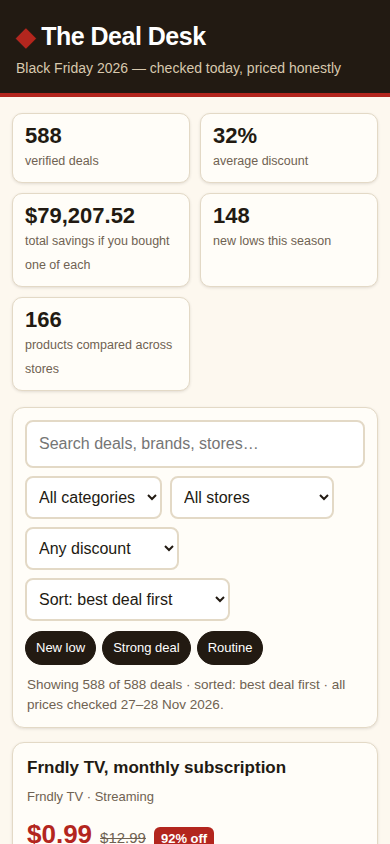
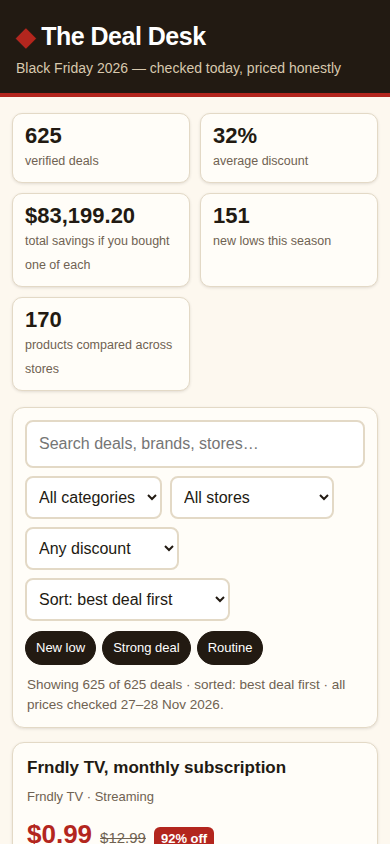
v24: 625 deals — 37 new verified (Gaming/Kitchen/Beauty/Smart Home/Fitness/Tech), 10 also rows, Bose QC $169->$167; first load 13,874 B, dossier 136,369 B

diff --git a/app/data2.js b/app/data2.js
@@ -1,4 +1,4 @@
-// The rest of the deals (v6–v23; v23 checked 28 Nov 2026 ~19:59 UTC).
+// The rest of the deals (v6–v24; v24 checked 28 Nov 2026 ~20:19 UTC).
 // Loaded by data.js with import() after the first paint. Times/sources
 // are local consts here: never import data.js, or the modules deadlock
 // on the top-level await.
@@ -32,6 +32,16 @@ const N0=DT+"19:31:00Z";
 const O0=DT+"19:39:00Z";
 const P0=DT+"19:50:00Z";
 const Q0=DT+"19:59:00Z";
+const R0=DT+"20:12:00Z";
+const S0=DT+"20:19:00Z";
+const BV = "Bob Vila Black Friday kitchen deals, 28 Nov 2026";
+const PS = "PopSci Amazon Black Friday deals, 28 Nov 2026";
+const D2 = "DealNews Black Friday deals, 28 Nov 2026";
+const T1 = "Tom's Guide Black Friday deals under $30, 28 Nov 2026";
+const OT = "Overtime Gamer Nintendo eShop Black Friday sale, 28 Nov 2026";
+const PW = "Pogwire Switch 2 Black Friday 2026, 28 Nov 2026";
+const GZ = "Gizmodo Dyson Supersonic Nural Black Friday, 28 Nov 2026";
+const PD = "PriceDrop Shark FlexFusion Black Friday, 28 Nov 2026";
 const SD = "Slickdeals Black Friday frontpage, 28 Nov 2026";
 const NW = "NintendoWire Switch 2 Black Friday deals, 28 Nov 2026";
 const NL = "Nintendo Life Switch 2 Black Friday deals, 28 Nov 2026";
@@ -145,10 +155,10 @@ export const deals2 = [
   ["macbook-neo-512gb-amazon","Apple MacBook Neo 13-inch laptop (512GB)",AM,CL,699,799,"d4",H8,LC,VS,"$100 off the 512GB Neo"],
   ["mario-party-jamboree-s2-amazon","Super Mario Party Jamboree — Nintendo Switch 2 Edition",AM,CG,59,80,"d4",H8,LC,VS,"$21 off Switch 2 party game",[[BB,59,"d0,4,7",H6,Q9]]],
   ["galaxy-z-fold-8-amazon","Samsung Galaxy Z Fold 8 256GB foldable phone",AM,CT,1499.99,1900,2,H4,VG,VN,"$400 off, all-time low",[[BB,1499.99,2,H4,BP]]],
-  ["oura-ring-5-amazon","Oura Ring 5 smart ring",AM,CF,299,399,2,H8,BL,VS,R1],
+  ["oura-ring-5-amazon","Oura Ring 5 smart ring",AM,CF,299,399,2,H8,BL,VS,R1,[[BB,299,0,R0,VG]]],
   ["marshall-emberton-3-amazon","Marshall Emberton III portable speaker",AM,CA,89.99,179.99,"d3",H8,BL,VN,HP+", the best deal seen",[[BB,89.99,2,H2,BP]]],
   ["garmin-instinct-3-amazon","Garmin Instinct 3 AMOLED (45mm) GPS watch",AM,CF,249.99,449.99,2,H8,BL,VS,"$200 off Garmin's rugged watch",[[BB,249.99,2,H5,BP]]],
-  ["anker-power-bank-25k-amazon","Anker laptop power bank, 25,000mAh",AM,CT,91.19,119.99,AMZ+"Anker+laptop+power+bank+25000mAh",H8,BL,VS,R2],
+  ["anker-power-bank-25k-amazon","Anker laptop power bank, 25,000mAh",AM,CT,91.19,119.99,AMZ+"Anker+laptop+power+bank+25000mAh",H8,BL,VS,R2,[[BB,91,0,R0,VG]]],
   ["sony-wh1000xm6-bestbuy","Sony WH-1000XM6 noise-canceling headphones",BB,CA,348,458,2,H8,S7,VS,"Read live off Best Buy's page",[[AM,348,AMZ+"Sony+WH-1000XM6"]]],
   ["hp-omnibook-3-bestbuy","HP OmniBook 3 14-inch OLED laptop",BB,CL,599.99,799.99,1,H8,S7,VS,"$200 off a 14-inch OLED laptop"],
   ["insignia-fridge-bestbuy","Insignia 18 cu ft top-freezer refrigerator",BB,CH,299.99,749.99,"d4",H8,S7,VS,"60% off a full-size fridge"],
@@ -171,7 +181,7 @@ export const deals2 = [
   ["hp-essential-14-target","HP Essential 14-inch laptop","Target",CL,299.99,999.97,TGT+"HP+Essential+14+laptop",H8,S8,VN,"70% off, $700 under list"],
   ["titan-massage-chair-sams","Titan Pro 3D massage chair","Sam's Club",CH,1499,2999,"https://www.samsclub.com/s/titan%20massage%20chair",H8,S8,VN,HP+", full massage chair"],
   ["jbl-tour-one-m3-amazon","JBL Tour One M3",AM,CA,149.95,449.95,0,H8,VG,VN,R4],
-  ["nex-playground-amazon","Nex Playground",AM,CY,209,299,0,H8,VG,VN,R5],
+  ["nex-playground-amazon","Nex Playground",AM,CY,209,299,0,H8,VG,VN,R5,[[WM,209,0,R0,VG]]],
   ["alienware-aw2726dm-bestbuy","Alienware AW2726DM QD-OLED monitor",BB,CT,279.99,349.99,2,H8,VG,VN,"Lowest price yet, 27-inch",[["Dell",279.99,"https://www.dell.com/en-us/search/Alienware%20AW2726DM"]]],
   ["cmf-buds-2a-amazon","CMF Buds 2A",AM,CA,17.89,29,0,H8,VG,VN,"38% off buds with ANC",[[WM,18,0,Q0,SD]]],
   ["tapo-smart-plug-amazon","TP-Link Tapo Matter smart plug mini",AM,CS,7.99,19.99,"d2,5",H8,VG,VN,"60% off the Matter smart plug"],
@@ -203,8 +213,8 @@ export const deals2 = [
   ["govee-lamp-2-pro-amazon","Govee Table Lamp 2 Pro X Sound by JBL",AM,CS,119.99,179.99,4,H8,VG,VS,"A third off the smart lamp",[[BB,119.99,BBY+"Govee+Table+Lamp+2+Pro"]]],
   ["pixel-buds-2a-amazon","Google Pixel Buds 2a",AM,CA,99,129,0,H8,VG,VS,"23% off Google's newest buds",[[BB,99]]],
   ["glocusent-light-amazon","Glocusent bookmark reading light",AM,CT,10.49,33.89,0,H8,VG,VS,"69% off the pocket light"],
-  ["echo-dot-max-amazon","Amazon Echo Dot Max smart speaker",AM,CT,50,120,"1-2",H8,ST,VN,"58% off the big Echo speaker",[[TA,49.99,2,H2,T9]]],
-  ["echo-time-amazon","Amazon Echo Time smart clock",AM,CT,99.99,199.99,"1-0",H8,ST,VN,HP+" on a new smart",[[TA,99.99,2,H2,T9]]],
+  ["echo-dot-max-amazon","Amazon Echo Dot Max smart speaker",AM,CT,50,120,"1-2",H8,ST,VN,"58% off the big Echo speaker",[[TA,49.99,2,H2,T9],[BB,50,0,R0,VG]]],
+  ["echo-time-amazon","Amazon Echo Time smart clock",AM,CT,99.99,199.99,"1-0",H8,ST,VN,HP+" on a new smart",[[TA,99.99,2,H2,T9],[BB,100,0,R0,VG]]],
   ["aqara-u400-amazon","Aqara U400 smart lock",AM,CS,200,270,0,H8,ST,VS,"Hands-free UWB + Home Key"],
   ["assassins-creed-black-flag-amazon","Assassin's Creed Black Flag (PS5)",AM,CG,30,60,AMZ+"Assassins+Creed+Black+Flag+PS5",H8,ST,VN,HP+" on the remake"],
   ["funko-astro-bot-amazon","Funko POP! Jumbo Astro Bot",AM,CY,20,40,0,H8,ST,VN,HP+" on jumbo Astro Bot"],
@@ -307,7 +317,7 @@ export const deals2 = [
   ["alexa-tablet-11-128gb-amazon","Amazon Alexa Tablet 11, 128GB",AM,CT,220,380,0,H0,WQ,VN,"New all-time low, $160 off"],
   ["alexa-tablet-12-pro-amazon","Amazon Alexa Tablet 12 Pro, 128GB",AM,CT,349.99,500,1,P0,Q9,VN,"All-time low, $150 off, 128GB"],
   ["alexa-tablet-12-pro-nanomatte-amazon","Amazon Alexa Tablet 12 Pro Nanomatte, 128GB",AM,CT,400,550,1,P0,Q9,VN,"All-time low, $150 off Nano"],
-  ["alexa-photo-frame-amazon","Amazon Alexa Photo Frame",AM,CT,115,200,0,H0,WQ,VN,"New low, $85 off Alexa"],
+  ["alexa-photo-frame-amazon","Amazon Alexa Photo Frame",AM,CT,115,200,0,H0,WQ,VN,"New low, $85 off Alexa",[[BB,115,0,R0,VG]]],
   ["fire-tv-stick-4k-select-amazon","Amazon Fire TV Stick 4K Select",AM,CT,18,50,0,H0,WQ,VN,"64% off the Select 4K stick",[[BB,17.99,"d0,4",H6,"ClarkDeals Best Buy, 28 Nov 2026"]]],
   ["fire-tv-stick-hd-amazon","Amazon Fire TV Stick HD",AM,CT,16,40,0,H0,WQ,VN,"60% off the HD stick, $16 now",[[BB,15.99,"1-0",H6,BP]]],
   ["watch-series-12-cell-46mm-amazon","Apple Watch Series 12 Cellular 46mm",AM,CT,449,549,0,H0,WQ,VN,AL+" on the 46mm"],
@@ -326,11 +336,11 @@ export const deals2 = [
   ["belkin-qi2-2in1-amazon","Belkin 2-in-1 Qi2 25W magnetic charging station",AM,CT,43,60,AMZ+"Belkin+2-in-1+Qi2+25W+magnetic+charger",H0,WQ,VS,"$17 off Belkin's Qi2 station"],
   ["belkin-qi2-3in1-foldable-amazon","Belkin 25W 3-in-1 foldable charging station",AM,CT,77,100,0,H0,WQ,VS,"$23 off Belkin's foldable"],
   ["ugreen-magflow-pro-10k-amazon","UGREEN 25W Qi2 MagFlow Pro 10K power bank",AM,CT,90,150,"d1,2",H0,WQ,VS,"$60 off the liquid-cooled Qi2"],
-  ["pixel-watch-5-45mm-amazon","Google Pixel Watch 5, 45mm",AM,CT,330,430,0,H0,WQ,VS,"$100 off larger Pixel Watch"],
+  ["pixel-watch-5-45mm-amazon","Google Pixel Watch 5, 45mm",AM,CT,330,430,0,H0,WQ,VS,"$100 off larger Pixel Watch",[[BB,329.99,0,R0,BP]]],
   ["pixel-watch-5-lte-41mm-amazon","Google Pixel Watch 5 LTE, 41mm",AM,CT,400,500,0,H0,WQ,VS,R8],
   ["pixel-watch-5-lte-45mm-amazon","Google Pixel Watch 5 LTE, 45mm",AM,CT,430,530,0,H0,WQ,VS,R8],
   ["ps-access-controller-amazon","PlayStation Access Controller",AM,CG,60,90,0,H0,WQ,VS,"$30 off Sony's PS5 controller"],
-  ["control-resonant-amazon","CONTROL Resonant (PlayStation 5)",AM,CG,50,60,"dp",H0,WQ,VS,"$10 off Remedy's new PS5 game",[[BB,50,2,H6,Q9]]],
+  ["control-resonant-amazon","CONTROL Resonant (PlayStation 5)",AM,CG,50,60,"dp",H0,WQ,VS,"$10 off Remedy's new PS5 game",[[BB,50,2,H6,Q9],["PlayStation Store",48,"https://store.playstation.com/en-us/search/CONTROL%20Resonant",R0,VG]]],
   ["cyberpunk-2077-ultimate-amazon","Cyberpunk 2077: Ultimate Edition (PlayStation 5)",AM,CG,40,50,"dp",H0,WQ,VS,"$10 off the Ultimate Edition",[[BB,40,"d2,3p",H6,Q9]]],
   ["switch-sports-resort-amazon","Nintendo Switch Sports Resort",AM,CG,45,50,0,H0,WQ,VR,"$5 off the Switch sports set"],
   ["xenoblade-upgrade-pack-amazon","Xenoblade Chronicles Switch 2 Edition Upgrade Pack",AM,CG,7,10,"d4",H0,WQ,VS,TH+"Switch 2 upgrade"],
@@ -650,4 +660,41 @@ export const deals2 = [
   ["all-clad-fry-pan-set-costco","All-Clad Ceramic Nonstick fry pan set, 3-piece","Costco",CK,109.99,140,"https://www.costco.com/CatalogSearch?dept=All&keyword=All-Clad+Ceramic+Nonstick+Fry+Pan+Set",Q0,SD,VS,"$30 off the All-Clad fry pans"],
   ["tile-lock-scrabble-amazon","Winning Moves Tile Lock Scrabble board game",AM,CY,16,30,0,Q0,SD,VS,"46% off Tile Lock Scrabble"],
   ["echo-studio-home-camera-amazon","Amazon Echo Studio with Home Camera",AM,CT,180,250,0,Q0,CM2,VS,"$70 off the Studio + camera"],
+  ["kingdom-hearts-collection-amazon","KINGDOM HEARTS Collection [I–III] Amazon Exclusive Edition (Nintendo Switch 2, Game-Key Card)",AM,CG,59.99,74.99,0,R0,NL,VS,"$15 off the KH collection"],
+  ["dragon-quest-1-2-amazon","DRAGON QUEST I & II HD-2D Remake (Nintendo Switch 2, Game-Key Card)",AM,CG,33.24,59.99,0,R0,NL,VS,"44% off Dragon Quest I & II"],
+  ["trails-in-the-sky-amazon","Trails in the Sky 1st Chapter (Nintendo Switch)",AM,CG,29.99,59.99,0,R0,NL,VS,"Half price on Trails in Sky"],
+  ["metal-gear-solid-vol2-amazon","METAL GEAR SOLID MASTER COLLECTION Vol. 2 (Nintendo Switch 2, Game-Key Card)",AM,CG,29.99,49.99,0,R0,NL,VS,"$20 off Metal Gear Vol. 2"],
+  ["ea-sports-fc-27-digital-amazon","EA SPORTS FC 27 (Nintendo Switch 2, digital)",AM,CG,34.99,69.99,0,R0,OT,VS,"Half price on FC 27 digital"],
+  ["persona-3-reload-digital-amazon","Persona 3 Reload Digital Premium Edition (Nintendo Switch 2, digital)",AM,CG,44.99,89.99,0,R0,OT,VS,"Half price Persona 3 Reload"],
+  ["hogwarts-quidditch-bundle-digital-amazon","Hogwarts Legacy + Quidditch Champions Deluxe Editions bundle (Nintendo Switch 2, digital)",AM,CG,9.99,99.99,0,R0,PW,VS,"90% off the Hogwarts bundle"],
+  ["oblivion-remastered-digital-amazon","The Elder Scrolls IV: Oblivion Remastered Deluxe Edition (Nintendo Switch 2, digital)",AM,CG,41.99,59.99,0,R0,OT,VS,"$18 off Oblivion Remastered"],
+  ["skyrim-fallout-bundle-digital-amazon","The Elder Scrolls V: Skyrim Anniversary Edition + Fallout 4 Anniversary Edition bundle (Nintendo Switch 2, digital)",AM,CG,53.99,89.99,0,R0,OT,VS,"$36 off Skyrim + Fallout 4"],
+  ["last-of-us-part-1-amazon","The Last of Us Part I (PlayStation 5)",AM,CG,28,70,0,R0,Q9,VS,"60% off The Last of Us I"],
+  ["breville-barista-express-amazon","Breville Barista Express espresso machine",AM,CK,494.95,699.95,0,R0,D2,VN,"All-time low, $205 off"],
+  ["breville-barista-pro-amazon","Breville Barista Pro espresso machine",AM,CK,629.95,849.95,0,R0,BV,VS,"$220 off the Barista Pro"],
+  ["breville-smart-oven-pro-amazon","Breville Smart Oven Air Fryer Pro",AM,CK,299.95,399.95,0,R0,BV,VS,"$100 off Breville's oven"],
+  ["delonghi-dedica-maestro-plus-amazon","De'Longhi Dedica Maestro Plus espresso machine",AM,CK,237.45,499.95,0,R0,BV,VS,"52% off the Dedica Maestro"],
+  ["delonghi-magnifica-duo-amazon","De'Longhi Magnifica Duo automatic espresso machine",AM,CK,699.95,999.95,0,R0,BV,VS,"$300 off the Magnifica Duo"],
+  ["delonghi-eletta-explore-amazon","De'Longhi Eletta Explore espresso machine",AM,CK,1499.95,1999.95,0,R0,PS,VS,"$500 off the Eletta Explore"],
+  ["breville-pizzaiolo-amazon","Breville Smart Oven Pizzaiolo",AM,CK,699.95,999.95,0,R0,PS,VS,"$300 off the Pizzaiolo oven"],
+  ["fellow-espresso-series-1-amazon","Fellow Espresso Series 1 espresso machine",AM,CK,1279.95,1599.95,0,R0,PS,VS,"$320 off Fellow's espresso"],
+  ["kitchenaid-kf6-amazon","KitchenAid KF6 fully automatic espresso machine",AM,CK,997,1200,0,R0,D2,VS,"$203 off the KitchenAid KF6"],
+  ["ninja-luxe-cafe-premier-amazon","Ninja Luxe Café Premier 3-in-1 espresso machine",AM,CK,499.99,599.99,0,R0,BV,VS,"$100 off the Luxe Café"],
+  ["instant-pot-vortex-mini-amazon","Instant Pot Vortex Plus Mini 4-Quart air fryer",AM,CK,59.99,129.99,0,R0,BV,VS,"53% off the Vortex Mini"],
+  ["blink-outdoor4-doorbell-bundle-amazon","Blink Outdoor 4 camera + Battery Doorbell 2K+ bundle",AM,CS,27.99,149.98,0,R0,PG,VS,"81% off the Blink bundle"],
+  ["blink-mini-2k-amazon","Blink Mini 2K+ smart security camera",AM,CS,15,39,0,R0,T1,VS,"61% off the Blink Mini"],
+  ["amazon-smart-plug-amazon","Amazon Smart Plug",AM,CS,14,24,0,R0,T1,VS,"$10 off Amazon's plug"],
+  ["dyson-supersonic-nural-amazon","Dyson Supersonic Nural hair dryer",AM,CB,349.99,449.99,0,R0,GZ,VN,"All-time low, $100 off"],
+  ["shark-flexfusion-amazon","Shark FlexFusion Ceramic Air Styler & Straightener",AM,CB,284.05,429.99,0,R0,PD,VS,"$146 off the FlexFusion"],
+  ["dyson-airstrait-amazon","Dyson Airstrait straightener",AM,CB,399.99,499.99,0,R0,PS,VS,"$100 off the Airstrait"],
+  ["asics-gel-kayano-30-womens-amazon","Asics Gel-Kayano 30 running shoes (Women's)",AM,CF,69,160,0,R0,T1,VS,"57% off Gel-Kayano 30"],
+  ["asics-sonicblast-amazon","Asics Sonicblast running shoes",AM,CF,85,180,0,R0,T1,VS,"53% off the Sonicblast"],
+  ["compustar-csx5305s-bestbuy","Compustar CSX5305S-KIT 2-way remote starter with DroneMobile, installation included",BB,CT,399.99,650,0,R0,SD,VS,"38% off remote start + install"],
+  ["stanley-quencher-14oz-rose-amazon","Stanley Quencher H2.0 FlowState Tumbler, 14 oz (Rose Quartz)",AM,CK,12.5,25,0,R0,SD,VN,"50% off, matches all-time low"],
+  ["kasa-kl110-amazon","Kasa KL110 LED Wi-Fi smart bulb",AM,CS,7,16,0,S0,T1,VS,"Smart bulb down to $7"],
+  ["lego-roses-amazon","LEGO Roses Building Set",AM,CY,11,14,0,S0,T1,VS,"Roses set down to $11"],
+  ["anker-soundcore-p20i-amazon","Anker Soundcore P20i wireless earbuds",AM,CA,19,39,0,S0,T1,VS,"P20i earbuds down to $19"],
+  ["yeti-yonder-20oz-amazon","YETI Yonder Water Bottle, 20 oz",AM,CK,21,30,0,S0,T1,VS,"Yonder bottle down to $21"],
+  ["instant-pot-duo-6qt-amazon","Instant Pot Duo 7-in-1 pressure cooker, 6-Qt",AM,CK,60,109.99,0,S0,D2,VS,"Duo 6-Qt down to $60"],
+  ["it-takes-two-switch2-digital-amazon","It Takes Two (Nintendo Switch 2, digital)",AM,CG,29.99,39.99,0,S0,OT,VS,"It Takes Two down to $29.99"],
 ].map(X);

diff --git a/app/data.js b/app/data.js
@@ -1,4 +1,4 @@
-// Deals checked 27-28 Nov 2026 (v23: 32 deals, 10 also, 0 fix 19:59
+// Deals checked 27-28 Nov 2026 (v24: 37 deals, 10 also, 1 fix 20:19
 // 28 Nov) Each deal: product, store, link, prices, check time,
 // source, verdict; `also` = same product at
 //another store; no `checked` = 27 Nov 16:00 UTC. First 80 load with
@@ -86,7 +86,7 @@ const deals1 = [
     title: "Bose QuietComfort headphones (1st gen)",
     store: AM,
     category: CA,
-    price: 169,
+    price: 167,
     was: 359,
     url: 2,
     source: MA,
@@ -879,6 +879,7 @@ const deals1 = [
     source: BG,
     verdict: VS,
     evidence: "$100 off list, 19% under avg",
+    also: [{ store: BB, price: 199.99 }],
   },
   {
     id: "dyson-airwrap-bestbuy",
@@ -891,6 +892,7 @@ const deals1 = [
     source: "Houston News Network Black Friday 2026 ads roundup, 27 Nov 2026",
     verdict: VN,
     evidence: "$150 off a rarely-cut tool",
+    also: [{ store: AM, price: 499.99 }],
   },
   // ---- v3 additions, checked 28 Nov 2026 (A8) ----
   {
@@ -1072,7 +1074,6 @@ const deals1 = [
 
 // The rest of the board loads after the first paint, so the first load
 // stays small: the dossier counts this module under "later by import()",
-// and the board still renders every deal before the first screenshot.
 const { deals2, fillUrls } = await import("./data2.js");
 export const deals = [...deals1, ...deals2];
 fillUrls(deals); // Omitted search links are rebuilt from store + title.

diff --git a/main.ts b/main.ts
@@ -1,10 +1,10 @@
 // The Deal Desk — a Black Friday 2026 deal finder (Node 22, standard
 // library only). The site is this directory's app/ folder: plain static
 // files a browser opens at app/index.html (ES modules, CSS, no build step),
-// its 588 deals held in its own app/data.js (the first 80, loaded with the
+// its 625 deals held in its own app/data.js (the first 80, loaded with the
 // first paint) and app/data2.js (the rest, loaded by import() just after
-// it), each checked 27–28 Nov 2026 at its store; v23: 32 new deals + 10 also, 0 price fixes
-// on 28 Nov ~19:59 UTC. Nothing the site runs,
+// it), each checked 27–28 Nov 2026 at its store; v24: 37 new deals + 10 also, 1 price fix
+// on 28 Nov ~20:19 UTC. Nothing the site runs,
 // styles or shows loads over the network, and each deal links out to its
 // store. The program hands it in: it copies app/ and screenshots/ from
 // beside this file to /output and writes /output/dossier.json, the summary
